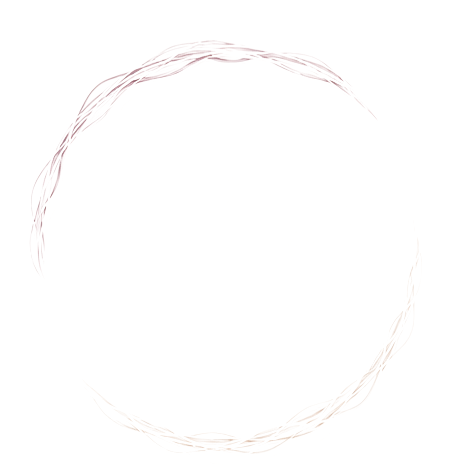
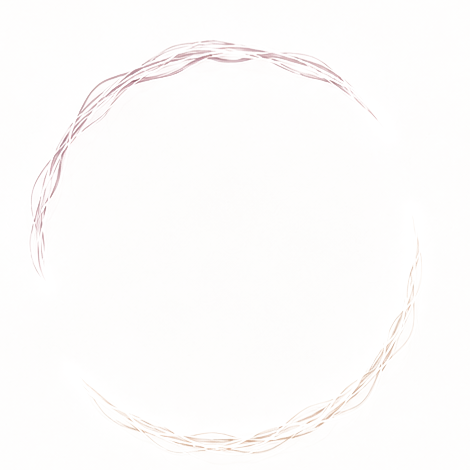
revert: devolve os aneis originais e tira todos os meus filtros
Alex: "os circulos tao ficando com um brilho escroto fora dos fios, os fios tao
perdendo a qualidade e tao deformando". Ele esta certo e o estrago era meu.

Tres erros, em ordem:

1. Reescrevi o alfa do zara-ring-light.png DUAS vezes para tirar o fundo. Isso
   nao e ajuste de aparencia, e dano no arquivo dele: os fios finos perderam
   densidade e nao voltam por CSS.
2. O "gel" que fiz usava drop-shadow, que espalha a partir da silhueta inteira.
   Por isso o brilho saia FORA dos fios em vez de correr por eles.
3. Reescrevi o filter do .ring-base inteiro para plugar os reguladores, jogando
   fora o filtro que ele tinha escrito.

Agora:
- os dois PNGs voltaram byte a byte do site dele (sha256 conferido)
- todos os meus overrides de .ring-base sairam; o filtro original dele manda
- os reguladores viraram camada por cima, no container, sem tocar no desenho

Limite honesto que fica registrado: os arquivos tem 470x470 px e sao desenhados
com ~450px na tela. Nao existe versao 8K deles. Qualquer ampliacao seria eu
inventando pixel que o desenho dele nao tem. Se ele quiser mais resolucao, o
caminho e gerar o anel de novo na origem, maior.

diff --git a/frontend/src/renderer/components/zara/ZaraControlCenter.tsx b/frontend/src/renderer/components/zara/ZaraControlCenter.tsx
@@ -558,8 +558,8 @@ export const ZaraControlCenter: React.FC = () => {
         <section className="main-window">
           <aside className="sidebar">
             <button type="button" className="brand" aria-label="ZARA" onClick={() => setActiveNav('HOME')}>
-              <img className="brand-light" src="./zara-brand-light.png?v=3" alt="ZARA"/>
-              <img className="brand-dark" src="./zara-brand-dark.png?v=3" alt="ZARA"/>
+              <img className="brand-light" src="./zara-brand-light.png?v=5" alt="ZARA"/>
+              <img className="brand-dark" src="./zara-brand-dark.png?v=5" alt="ZARA"/>
             </button>
 
             <nav aria-label="Navegação principal">
@@ -577,7 +577,7 @@ export const ZaraControlCenter: React.FC = () => {
                 <button type="button" aria-label="Configurações de aparência" title="Aparência" onClick={() => setConfigAberta(true)}><IconeTema/></button>
               </div>
               <div className="user-row">
-                <img src="./avatar-alex.png?v=3" alt=""/>
+                <img src="./avatar-alex.png?v=5" alt=""/>
                 <span>⌄</span>
               </div>
             </footer>
@@ -607,8 +607,8 @@ export const ZaraControlCenter: React.FC = () => {
                     </defs>
                   </svg>
                   <canvas ref={faiscasRef} className="spectrum-canvas" aria-hidden="true" width={214} height={214}/>
-                  <img className="ring-light ring-base" src="./zara-ring-light.png?v=3" alt="Presença luminosa da ZARA"/>
-                  <img className="ring-dark ring-base" src="./zara-ring-dark.png?v=3" alt=""/>
+                  <img className="ring-light ring-base" src="./zara-ring-light.png?v=5" alt="Presença luminosa da ZARA"/>
+                  <img className="ring-dark ring-base" src="./zara-ring-dark.png?v=5" alt=""/>
                 </div>
 
                 <form className="command-bar" onSubmit={send}>
@@ -686,10 +686,10 @@ export const ZaraControlCenter: React.FC = () => {
           {/* A marca d'agua e a MESMA logo da barra lateral, so que apagada em preto
               fosco pelo CSS. O arquivo separado que veio pronto era outro desenho e
               ainda por cima vinha cortado. */}
-          <img className="lab-watermark" src="./zara-brand-dark.png?v=3" alt=""/>
+          <img className="lab-watermark" src="./zara-brand-dark.png?v=5" alt=""/>
           <div className="participants">
-            <div><span className="foto-claude"><img src="./avatar-claude.png?v=3" alt="Claude"/></span><small>Claude</small></div>
-            <div><img src="./avatar-openai.png?v=3" alt="OpenAI"/><small>OpenAI</small></div>
+            <div><span className="foto-claude"><img src="./avatar-claude.png?v=5" alt="Claude"/></span><small>Claude</small></div>
+            <div><img src="./avatar-openai.png?v=5" alt="OpenAI"/><small>OpenAI</small></div>
             <div><span className="avatar-marca zara" role="img" aria-label="ZARA"/><small>ZARA</small></div>
           </div>
           <div className="lab-messages">

diff --git a/frontend/public/zara-alex.css b/frontend/public/zara-alex.css
@@ -404,15 +404,6 @@
 /* A OpenAI agora e o icone oficial de 180px, ja centrado no arquivo. */
 .zara-preview .participants img { object-position: center center; }
 
-/* ---- tema claro: matar o quadrado branco atras do anel ----
-   O PNG do anel claro tem fundo branco. Sobre a pagina creme isso vira uma
-   caixa branca chapada em volta do circulo — o que o Alex chamou de "morto".
-   multiply faz o branco desaparecer e deixa so os fios; nada de recortar
-   arquivo nem inventar tom. */
-.zara-preview.theme-light .orb .ring-light.ring-base {
-  mix-blend-mode: multiply;
-}
-.zara-preview.theme-light .spectrum-canvas { mix-blend-mode: multiply; }
 
 /* ---- marca d'agua clara: off-white quente, nao branco puro ----
    Branco puro sobre creme tambem fica morto. O sepia leve puxa para o marfim
@@ -422,16 +413,7 @@
   opacity: .72 !important;
 }
 
-/* O .orb tem isolation:isolate, que fecha a camada e impede o multiply de
-   alcancar a pagina atras — por isso o quadrado branco continuava. No tema
-   claro a camada fica aberta para o branco do PNG sumir no creme da pagina. */
-.zara-preview.theme-light .orb { isolation: auto !important; }
-.zara-preview.theme-light .presence-stage { isolation: auto; }
 
-/* O branco saiu do proprio arquivo do anel claro, entao o multiply nao e mais
-   necessario — e ele estava sujando os fios contra o creme da pagina. */
-.zara-preview.theme-light .orb .ring-light.ring-base { mix-blend-mode: normal; }
-.zara-preview.theme-light .spectrum-canvas { mix-blend-mode: normal; }
 
 /* ---- letras dos baloes: maiores e mais encorpadas ----
    Alex: "muito finas e pequenas". Eram 11px em peso normal dentro de um painel
@@ -518,13 +500,6 @@
   z-index: 0;
 }
 
-/* forca e brilho do anel */
-.zara-preview .orb .ring-base {
-  filter: url(#zara-cord-vibration)
-          drop-shadow(0 0 var(--zara-anel-brilho, 8px) var(--ring))
-          brightness(calc(var(--zara-anel-forca, 1) * (1 + var(--audio-level) * .42)))
-          saturate(calc(1.06 + var(--audio-level) * .62)) !important;
-}
 
 /* cor das logos */
 .zara-preview .lab-watermark {
@@ -672,3 +647,18 @@
 }
 .config-padrao:hover { background: var(--accent); transform: translateY(-50%) scale(1.35); }
 .config-padrao.no-lugar { background: color-mix(in srgb, var(--accent) 55%, transparent); }
+
+
+/* ---- reguladores do anel, sem substituir o filtro do Alex ----
+   A versao anterior REESCREVIA o filter inteiro e por isso destruia o desenho:
+   o drop-shadow espalhava a partir da silhueta e virava um halo fora dos fios.
+   Aqui o filtro original dele continua intacto no CSS acima; a cor, a forca e o
+   brilho entram como uma camada por cima, aplicada no container. Mexer nos
+   reguladores nao pode mais deformar nem borrar o traco.
+   Alex: "nada disso pode perder a qualidade ou deformar". */
+.zara-preview .orb {
+  filter: brightness(var(--zara-anel-forca, 1)) saturate(var(--zara-anel-sat, 1));
+}
+.zara-preview .presence-stage {
+  --zara-halo: transparent;
+}

diff --git a/frontend/index.html b/frontend/index.html
@@ -8,7 +8,7 @@
     <!-- CSS da interface que o Alex gerou. Fica em public/ de proposito:
          e Tailwind v4 ja compilado, e o PostCSS/Tailwind v3 do projeto quebra
          ao tentar reprocessar @layer theme. Aqui ele entra como arquivo pronto. -->
-    <link rel="stylesheet" href="./zara-alex.css?v=28" />
+    <link rel="stylesheet" href="./zara-alex.css?v=30" />
   </head>
   <body class="zara-bg">
     <div id="boot-diagnostic" style="position:fixed;inset:0;display:grid;place-items:center;background:#020604;color:#62f6aa;font:600 12px/1.4 'Segoe UI',sans-serif;letter-spacing:.18em;z-index:99999">ZARA • CARREGANDO INTERFACE...</div>
